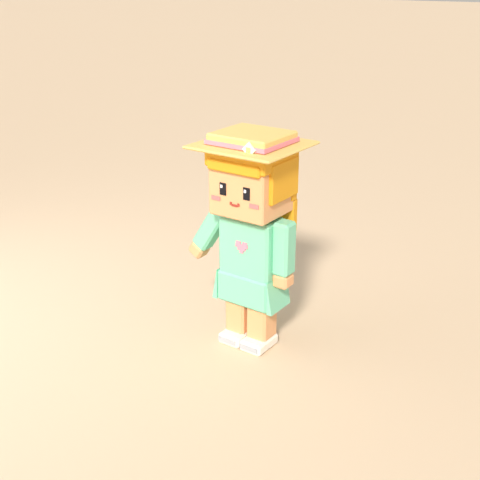
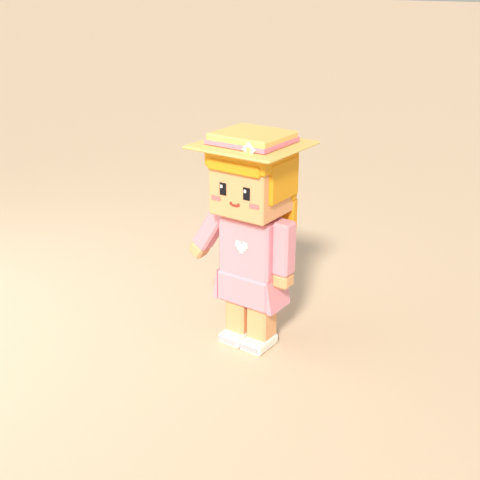
Give Sunny a rose sundress so a mint outfit means staff (#484)
Review-QA's note on #483: the staff wear mint scrubs and Sunny wore a whole mint
dress. Her dress is rose with a cream heart now, and the style guide says no
customer wears a mint top, dress or trousers.

Claude-Session: https://claude.ai/code/session_01DW2up3E6M21fYJtCcCtEdr

Changed region(s): [[0.4062, 0.4375, 0.625, 0.6562]]

diff --git a/assets/clean-a-cat/blender/townsfolk.py b/assets/clean-a-cat/blender/townsfolk.py
@@ -34,7 +34,7 @@ SPECIAL_LOOKS has the special customers (issue #476), who bring the special cats
 and attributes as the townsfolk, so the walk in and the carry work unchanged, plus a root attribute `Special` = true.
 They are told from the townsfolk across a yard by one shared cue: lilac and gold (the game's prize colours), gold
 shoes, a gold star, and a hat no townsperson wears (a beret, a crown, a wide feathered hat). No look in LOOKS wears
-lilac or gold (#479). They carry
+lilac or gold (#479), and none wears a mint top, dress or trousers: a mint outfit is the staff's (#484). They carry
 `CleanACat_Prop_CarrierRoyal` (spa_props). Vivi is the rare visitor of #142 (busy_spa.VISITORS) on the new build.
 """
 
@@ -55,10 +55,10 @@ TALL = dict(leg=1.68, pelvis=0.35, torso=1.6, tw=1.42, td=0.8, arm=1.42, hw=1.46
 SMALL = dict(leg=1.35, pelvis=0.33, torso=1.45, tw=1.36, td=0.8, arm=1.2, hw=1.52, hd=1.36, hh=1.46, speed=6.0)
 
 LOOKS = {
-    # a golden-haired gardener in a mint sundress and a straw sun hat
+    # a golden-haired gardener in a rose sundress and a straw sun hat (mint until #484: a mint outfit is the staff's)
     "Sunny": dict(body=ADULT, skin="skin_light", hair="fur_golden", style="long", sunhat="pastel_butter",
-                  band="spa_bubblegum", top="spa_mint", skirt="spa_mint", legs="skin_light", shoes="offwhite",
-                  patch="heart", patch_sw="spa_bubblegum"),
+                  band="spa_bubblegum", top="fur_rose", skirt="fur_rose", legs="skin_light", shoes="offwhite",
+                  patch="heart", patch_sw="offwhite"),
     # tall, in a striped butter jumper and a mint scarf
     "Mo": dict(body=TALL, skin="skin_deep", hair="fur_black", style="short", top="pastel_butter", stripes="offwhite",
                scarf="spa_mint", pants="pants_navy", shoes="offwhite", brows=True),

diff --git a/docs/art/style-guide.md b/docs/art/style-guide.md
@@ -171,7 +171,7 @@ The owner on 2026-11-25: "rework customers to be much better", and what bothered
 
 | Customer | Build | Who |
 |---|---|---|
-| `CleanACat_NPC_Customer_Sunny` | adult | long golden hair, a straw sun hat with a pink band, a mint sundress with a heart |
+| `CleanACat_NPC_Customer_Sunny` | adult | long golden hair, a straw sun hat with a pink band, a rose sundress with a cream heart (mint until #484) |
 | `CleanACat_NPC_Customer_Mo` | tall | short black hair, a striped butter jumper, a mint scarf, navy trousers |
 | `CleanACat_NPC_Customer_Pip` | small | a brown bob, a sky hoodie, a pink tote bag with a paw in the left hand |
 | `CleanACat_NPC_Customer_Rae` | adult | a ginger ponytail, denim dungarees with a paw over a pink tee, red shoes |
@@ -184,7 +184,7 @@ The owner on 2026-11-25: "rework customers to be much better", and what bothered
 - **Joints.** The main object is `..._Body` (torso, hips, skirt, neck, scarf, hood, backpack); its biggest part is the PrimaryPart. Five child Models, each with its pivot at the joint: `..._Head` (top of the neck), `..._ArmL` and `..._ArmR` (shoulder), `..._LegL` and `..._LegR` (hip). Turn one about its pivot's X axis for a step, an arm swing or a nod, and the head about its Y to look round. Left and right are the customer's own. No knees or elbows: a step of about 25 degrees each way reads as a walk at this size.
 - **The carrier hand.** The right arm is built already held out to the side by the root attribute `CarryArmDegrees` (20 to 36), which is what it takes for the carrier to clear the hips or the skirt. The Attachment `Grip` is in the middle of that hand, on the arm's biggest part so it follows the arm: put the carrier's own `Grip` on it with the carrier facing the customer's way, and it swings 0.06 to 0.3 over the ground beside the leg. To hang the arm straight, turn it back by `CarryArmDegrees` about its pivot's Z.
 - **Other Attachments and attributes.** `Overhead` over the head, clear of any hat, for a bubble or a timer. `Look` (the name), `WalkSpeed` (6 to 7 studs a second), `LegLength` (hip joint to floor: a step of A degrees each way covers 2 x LegLength x sin A), `Height`.
-- **Rules kept from this.** A customer's face is never covered (hats sit on the hair, glasses are thin frames). Clothes are our pastels with one deeper colour (navy, denim, brown) so a customer stands out from the pastel room. No customer wears the staff's mint smock. No townsperson wears lilac or gold: those mean a special customer (#479; Bea's cardigan and Juno's hoodie were lilac until then). Children are not in this set: a child's hand is too low for the carrier, so a child needs a different way to bring a cat.
+- **Rules kept from this.** A customer's face is never covered (hats sit on the hair, glasses are thin frames). Clothes are our pastels with one deeper colour (navy, denim, brown) so a customer stands out from the pastel room. No customer wears a mint top, dress or trousers: a mint outfit means staff (#484; Sunny's sundress was mint until then). Small mint accents stay (Mo's scarf, Juno's headphones, Kit's beanie, Rae's hair tie). No townsperson wears lilac or gold: those mean a special customer (#479; Bea's cardigan and Juno's hoodie were lilac until then). Children are not in this set: a child's hand is too low for the carrier, so a child needs a different way to bring a cat.
 
 #### The special customers (#476), a draft
 The owner on 2026-11-25: special customers "that expire that only I can take their cats and have them have the really cool cat designs". These bring the special cats (section 20). `townsfolk.SPECIAL_LOOKS` holds a first three, built exactly like the townsfolk (same joints, `Grip`, `Overhead` and attributes, so the walk in and the carry work unchanged) with one more root attribute, `Special` = true. They are not in the game's townsfolk list, so nothing spawns them until the game wires it.

diff --git a/docs/concepts/clean-a-cat/README.md b/docs/concepts/clean-a-cat/README.md
@@ -84,3 +84,4 @@ HUD source page: `assets/clean-a-cat/ui/hud.html`. Plans: issues #5 (first sessi
 - `2026-11-25-lilac-means-special.png`: the check sheet for #479: Bea and Juno before (lilac) and after (sage, peach) in a line with the special customers, from the front and from behind, at full and quarter size.
 - `2026-11-25-dirt-levels-own-place.png`: the check sheet for #478: the card picture at dirt level 1 to 4 before and after on a light, a mid and two dark coats and two special cats, each also at 64 px. After it each level adds mud in a place of its own. The earlier `2026-11-25-dirt-levels.png` shows the levels as they were before.
 - `2026-11-25-spa-staff.png`: the check sheet for the human staff as game models (#482), a draft: Jo, Sam and Lou in a line with customers and a special customer from the front, from behind and from above, the line at a quarter size, each one from four sides and from above, the screen picture at 200, 96 and 64 px, a walk and a pose at the tub.
+- `2026-11-25-sunny-rose-dress.png`: the check sheet for #484: Sunny before (a mint sundress) and after (rose) in a line with the three staff, from the front and from behind, with the line at a quarter size.
